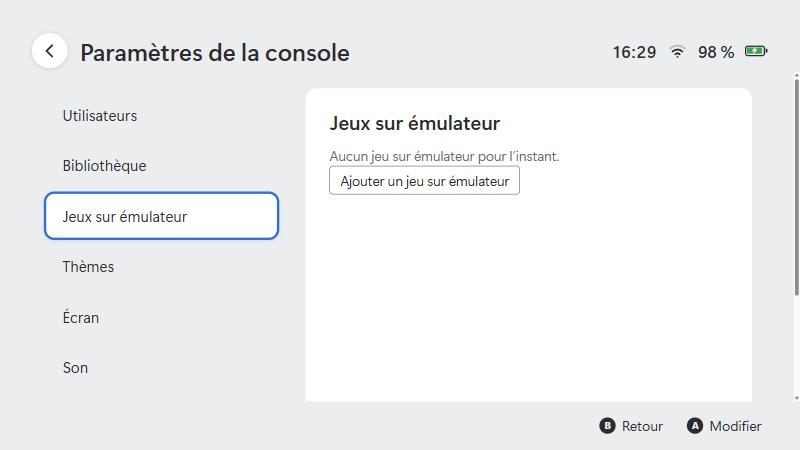
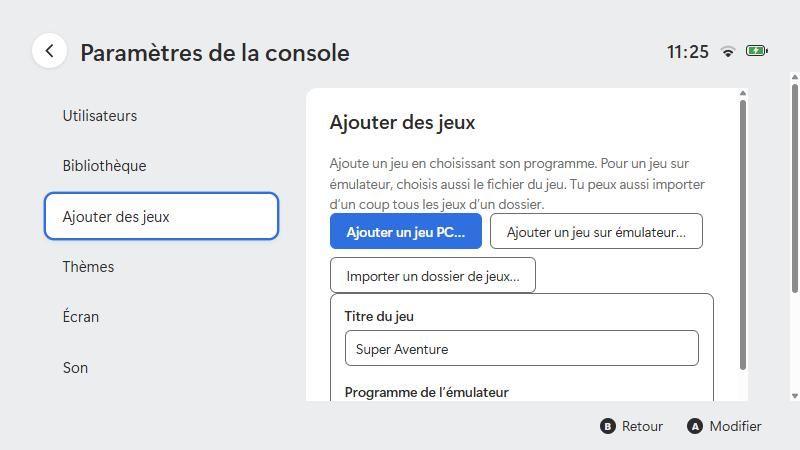
Documentation : écran Ajouter des jeux, assistant, lien de téléchargement, captures à jour

diff --git a/src/renderer/src/devMock.ts b/src/renderer/src/devMock.ts
@@ -28,7 +28,9 @@ export function installDevMock(): void {
       { id: 'p2', name: 'Invité', color: '#d6478f', background: 'p:pois', avatar: '', image: '' }
     ],
     activeProfile: 'p1',
-    emulated: [],
+    emulated: [
+      { title: 'Super Aventure', emulatorExe: 'C:\\Outils\\mon-emulateur.exe', gameFile: 'D:\\Jeux\\super-aventure.xyz', args: ['-f', '-g', '{game}'], readyTitle: '' }
+    ],
     showMissingGames: true,
     coversDir: 'C:\\Images\\Jaquettes',
     audioDir: 'C:\\Musique\\Console Launcher',

diff --git a/docs/emulateurs.md b/docs/emulateurs.md
@@ -2,7 +2,7 @@
 
 [← Documentation](../README.md#documentation)
 
-Pour chaque jeu, tu indiques **quel émulateur** ouvrir et **quel fichier** lui donner. Le lanceur :
+Pour chaque jeu, tu indiques **quel émulateur** ouvrir et **quel fichier** lui donner (un jeu à la fois : il n'y a pas encore d'import d'un dossier de fichiers de jeu). Le lanceur :
 
 1. couvre l'écran d'un fond noir pendant le chargement ;
 2. démarre l'émulateur avec ton jeu ;
@@ -12,7 +12,7 @@ Pour chaque jeu, tu indiques **quel émulateur** ouvrir et **quel fichier** lui 
 > Le lanceur ne fournit ni émulateur ni jeu. Utilise des émulateurs téléchargés depuis leur site officiel et des jeux que tu possèdes et que tu as copiés toi-même. Voir [ce qui est inclus et ce qui ne l'est pas](fichiers-de-jeu.md).
 
 <p align="center">
-  <img src="images/emulateurs.jpg" alt="Catégorie « Jeux sur émulateur » des paramètres" width="560">
+  <img src="images/emulateurs.jpg" alt="Catégorie « Ajouter des jeux » des paramètres" width="560">
 </p>
 
 Pour apprendre la méthode complète avec n'importe quel outil : [Intégrer toi-même un outil](integrer-un-outil.md).
@@ -20,19 +20,18 @@ Pour apprendre la méthode complète avec n'importe quel outil : [Intégrer toi-
 ## Étapes
 
 1. Installe ton émulateur et vérifie **à la main** qu'il lance bien ton jeu.
-2. **Paramètres de la console → Jeux sur émulateur → Ajouter un jeu sur émulateur.**
-3. Remplis les champs :
+2. **Paramètres de la console → Ajouter des jeux → Ajouter un jeu sur émulateur…** : choisis le programme de l'émulateur, puis le fichier du jeu.
+3. Vérifie ou complète les champs de la fiche qui apparaît :
 
    | Champ | À mettre |
    |---|---|
    | **Titre du jeu** | Le nom affiché sur la tuile. |
    | **Programme de l'émulateur** | **Parcourir…** puis l'`.exe` de l'émulateur. |
-   | **Fichier du jeu** | **Parcourir…** puis le fichier du jeu. |
-   | **Fichier du jeu** | Laisse-le **vide** pour un jeu recompilé (un programme qui se lance seul) : dans ce cas, n'écris pas `{game}` dans les arguments. |
+   | **Fichier du jeu** | **Parcourir…** puis le fichier du jeu. Pour un jeu recompilé (un programme qui se lance seul), utilise plutôt **Ajouter un jeu PC…** : il n'y a pas de fichier de jeu. |
    | **Arguments** | Les options de l'émulateur. Écris `{game}` à l'endroit où le fichier du jeu doit apparaître. Les espaces dans le chemin ne posent pas de problème. |
 
 4. Quitte les paramètres : la tuile apparaît à l'accueil. Elle n'existe que si l'émulateur **et** le fichier du jeu sont présents aux chemins indiqués.
-5. Ajoute une image : *Bibliothèque → Jeux → Image…* (voir [Jeux natifs](jeux-natifs.md#titres-et-images)).
+5. Ajoute une image : *Paramètres → Bibliothèque → Jeux → Image…* (voir [Jeux natifs](jeux-natifs.md#titres-et-images)).
 
 ## Fenêtre du jeu : titre et icône
 
@@ -88,7 +87,7 @@ Ces réglages avancés s'écrivent dans `config.json` (voir [Configuration](conf
 
 ## Retirer un jeu
 
-*Jeux sur émulateur →* **Retirer ce jeu**, sous sa fiche.
+*Paramètres → Ajouter des jeux →* **Retirer ce jeu**, sous sa fiche.
 
 ## Voir aussi
 

diff --git a/README.md b/README.md
@@ -4,6 +4,8 @@ Un lanceur de jeux **plein écran** pour PC, inspiré du menu d'accueil d'une co
 
 Il lance **tes** jeux : des programmes PC « natifs », ou des jeux qui passent par un **émulateur**.
 
+**Télécharger :** [la dernière version](https://github.com/FireXcorn/console-launcher/releases/latest) pour Windows 10 et 11 : décompresse l'archive et lance `Console Launcher.exe`, rien à installer.
+
 <p align="center">
   <img src="docs/images/accueil-sans-theme.jpg" alt="Accueil du lanceur, mode « Sans thème » : une rangée de jeux et la barre d'icônes" width="720"><br>
   <em>Mode « Sans thème » : le menu d'origine.</em>
@@ -59,23 +61,26 @@ Le lanceur est alors dans `dist/win-unpacked/` : lance `Console Launcher.exe`. D
 
 ## Ajouter ses jeux
 
-1. Ouvre **Paramètres de la console** (l'icône en forme de soleil, dans la barre du bas).
-2. Pour un jeu PC : **Bibliothèque** → choisis ton dossier de jeux et le nom du programme. → [Guide des jeux natifs](docs/jeux-natifs.md)
-3. Pour un jeu sur émulateur : **Jeux sur émulateur** → ajoute le programme et le fichier du jeu. → [Guide des émulateurs](docs/emulateurs.md)
+Au premier lancement, un assistant te propose d'importer un dossier de jeux. Sinon :
+
+1. Ouvre **Paramètres de la console** (l'icône en forme de soleil, dans la barre du bas) → **Ajouter des jeux**.
+2. **Ajouter un jeu PC…** : choisis le programme (`.exe`) du jeu. → [Guide des jeux natifs](docs/jeux-natifs.md)
+3. **Ajouter un jeu sur émulateur…** : choisis l'émulateur, puis le fichier du jeu. → [Guide des émulateurs](docs/emulateurs.md)
+4. **Importer un dossier de jeux…** : le lanceur trouve un programme par sous-dossier ; tu coches ceux à ajouter.
 
 <p align="center">
-  <img src="docs/images/emulateurs.jpg" alt="Paramètres : jeux sur émulateur" width="560">
+  <img src="docs/images/emulateurs.jpg" alt="Paramètres : Ajouter des jeux" width="560">
 </p>
 
 ## Documentation
 
 | Page | Contenu |
 |---|---|
-| [Installation](docs/installation.md) | Construire et lancer l'application, démarrage automatique |
+| [Installation](docs/installation.md) | Télécharger ou construire l'application, premier lancement, démarrage automatique |
 | [Intégrer un outil toi-même](docs/integrer-un-outil.md) | La méthode pour brancher n'importe quel émulateur ou outil de recompilation |
 | [Ce qui est inclus](docs/fichiers-de-jeu.md) | Jeux, émulateurs, recompilation : ce que tu dois fournir toi-même |
 | [Jeux natifs](docs/jeux-natifs.md) | Dossier des jeux, nom du programme, recompilations, titres et images |
-| [Émulateurs](docs/emulateurs.md) | Ajouter un jeu sur émulateur, arguments, détection du démarrage |
+| [Émulateurs](docs/emulateurs.md) | Ajouter un jeu sur émulateur ou recompilé, arguments, détection du démarrage |
 | [Personnalisation](docs/personnalisation.md) | Profils, personnages, thèmes, sons, jaquettes, album |
 | [Configuration](docs/configuration.md) | Référence complète de `config.json` |
 | [Dépannage](docs/depannage.md) | Les problèmes courants et leurs solutions |

diff --git a/docs/jeux-natifs.md b/docs/jeux-natifs.md
@@ -42,7 +42,7 @@ D:\Mes jeux\                  ← « Dossier des jeux »
 
 ## Jeux issus d'une recompilation ou d'un portage
 
-Un outil de recompilation produit un programme PC (`.exe`) à partir de **ta** copie d'un jeu. Pour le lanceur, c'est un jeu natif comme un autre : place le dossier obtenu dans ton dossier des jeux et indique le programme (souvent `bin\nom.exe`). Si le programme est dans un sous-dossier, garde le dossier du jeu comme dossier de travail : c'est ce que fait le lanceur. **Dossier rangé ailleurs, ou programme au nom différent ?** Ajoute-le comme un *jeu sur émulateur* **sans fichier de jeu** : *Programme de l'émulateur* = le `.exe` du jeu recompilé, *Fichier du jeu* laissé vide, *Arguments* vides. Si la fenêtre du jeu a un titre reconnaissable (par exemple « Mon Jeu Recomp »), indique-le dans `readyTitle` ([Émulateurs](emulateurs.md#régler-la-détection-pour-un-émulateur-précis)) pour que l'écran noir parte dès que le jeu tourne. Le lanceur ne contient aucun de ces outils ni aucun jeu : voir [ce qui est inclus et ce qui ne l'est pas](fichiers-de-jeu.md).
+Un outil de recompilation produit un programme PC (`.exe`) à partir de **ta** copie d'un jeu. Pour le lanceur, c'est un jeu natif comme un autre : place le dossier obtenu dans ton dossier des jeux et indique le programme (souvent `bin\nom.exe`). Si le programme est dans un sous-dossier, garde le dossier du jeu comme dossier de travail : c'est ce que fait le lanceur. **Dossier rangé ailleurs, ou programme au nom différent ?** Utilise *Paramètres → Ajouter des jeux → **Ajouter un jeu PC…*** et choisis le `.exe` du jeu recompilé : pas de fichier de jeu, pas d'arguments. Si la fenêtre du jeu a un titre reconnaissable (par exemple « Mon Jeu Recomp »), indique-le dans `readyTitle` ([Émulateurs](emulateurs.md#régler-la-détection-pour-un-émulateur-précis)) pour que l'écran noir parte dès que le jeu tourne. Le lanceur ne contient aucun de ces outils ni aucun jeu : voir [ce qui est inclus et ce qui ne l'est pas](fichiers-de-jeu.md).
 
 ## Titres et images
 

diff --git a/docs/configuration.md b/docs/configuration.md
@@ -6,7 +6,7 @@ Presque tout se règle dans l'application (*Paramètres de la console*). Ce fich
 
 - **Emplacement** : dans le dossier de données du lanceur, sous `%APPDATA%`.
 - **Avant de le modifier à la main, ferme le lanceur** : il réécrit le fichier à chaque changement.
-- Une clé absente reprend sa valeur par défaut ; un fichier illisible est ignoré (les valeurs par défaut s'appliquent).
+- Une clé absente reprend sa valeur par défaut ; un fichier illisible n'est jamais écrasé en silence : il est gardé à côté (`config.json.casse-…`) et la dernière copie de secours (`config.json.bak`) est reprise si elle est valide. Le caractère invisible (BOM) que certains éditeurs ajoutent est accepté.
 
 ## Bibliothèque
 
@@ -19,15 +19,15 @@ Presque tout se règle dans l'application (*Paramètres de la console*). Ce fich
 | `showMissingGames` | oui/non | Affiche aussi des tuiles « Cartouche vide » pour des jeux non installés. |
 | `overrides` | objet | Titres et images choisis par jeu : `{ "<id du jeu>": { "title": "…", "icon": "C:\\…" } }`. |
 
-## Jeux sur émulateur (`emulated`)
+## Jeux ajoutés à la main (`emulated`)
 
-Liste d'entrées :
+La liste que remplit *Paramètres → Ajouter des jeux* : jeux sur émulateur, mais aussi jeux PC ou recompilés (sans `gameFile`). Liste d'entrées :
 
 | Clé | Type | Rôle |
 |---|---|---|
 | `title` | texte | Nom affiché. |
 | `emulatorExe` | texte | Programme de l'émulateur. |
-| `gameFile` | texte | Fichier du jeu ; remplace `{game}` dans les arguments. |
+| `gameFile` | texte | Fichier du jeu ; remplace `{game}` dans les arguments. Vide pour un jeu PC ou recompilé, lancé seul. |
 | `args` | liste de textes | Arguments de l'émulateur. |
 | `readyTitle` | texte | Expression régulière sur le titre de la fenêtre : le jeu tourne. Vide : titre à plusieurs `\|`. |
 | `readyLog` | texte (facultatif) | Journal de l'émulateur à surveiller. |

diff --git a/docs/installation.md b/docs/installation.md
@@ -42,10 +42,14 @@ npm run dev
 
 ## Premier démarrage
 
-Au premier lancement, la bibliothèque est vide : aucun dossier de jeux n'est choisi. Va dans **Paramètres de la console** :
+Au premier lancement, la bibliothèque est vide : un écran **Bienvenue** te propose d'**importer un dossier de jeux** (un programme par sous-dossier), d'**ajouter un jeu à la main** ou de le faire plus tard.
 
-- [Jeux natifs](jeux-natifs.md) → catégorie **Bibliothèque**
-- [Jeux sur émulateur](emulateurs.md) → catégorie **Jeux sur émulateur**
+Plus tard, tout se fait dans **Paramètres de la console → Ajouter des jeux** :
+
+- [Jeux PC et jeux recompilés](jeux-natifs.md) : un programme, ou un dossier entier ;
+- [Jeux sur émulateur](emulateurs.md) : l'émulateur et le fichier du jeu.
+
+En jeu, `Ctrl+Alt+Q` (ou `Retour` + `Menu` maintenus 2 secondes sur manette) ramène au menu.
 
 ## Démarrer avec la session
 

diff --git a/docs/integrer-un-outil.md b/docs/integrer-un-outil.md
@@ -33,12 +33,12 @@ C'est l'étape la plus importante. Si ça ne marche pas à la main, ça ne march
 
 ## Étape 2 : ajouter le jeu au lanceur
 
-*Paramètres de la console → Jeux sur émulateur → Ajouter un jeu sur émulateur*, puis remplis :
+*Paramètres de la console → Ajouter des jeux → Ajouter un jeu sur émulateur…* (choisis l'émulateur, puis le fichier du jeu), puis vérifie la fiche :
 
 | Champ | Ce que tu y mets |
 |---|---|
 | Titre du jeu | Le nom de la tuile. |
-| Programme de l'émulateur | Le `.exe` de l'outil. |
+| Programme de l'émulateur | Le `.exe` de l'outil (pour un outil qui se lance seul, utilise **Ajouter un jeu PC…**). |
 | Fichier du jeu | Ton fichier de jeu. |
 | Arguments | Ceux de l'étape 1, avec `{game}` à la place du chemin du jeu : `-f -g {game}`. |
 
